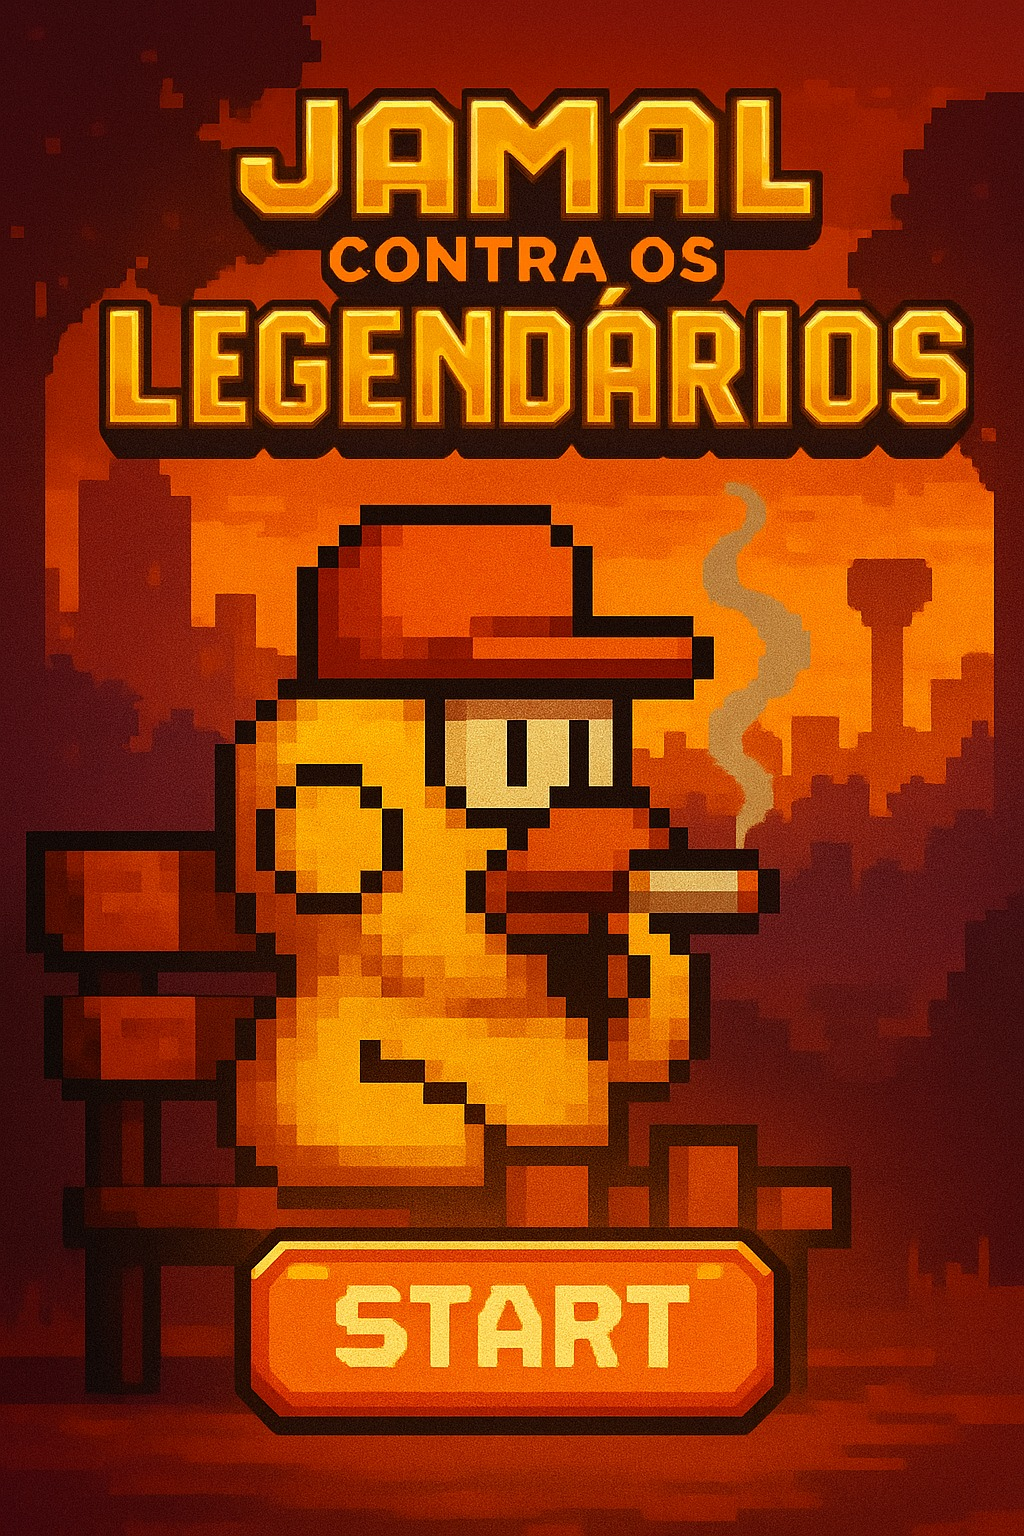
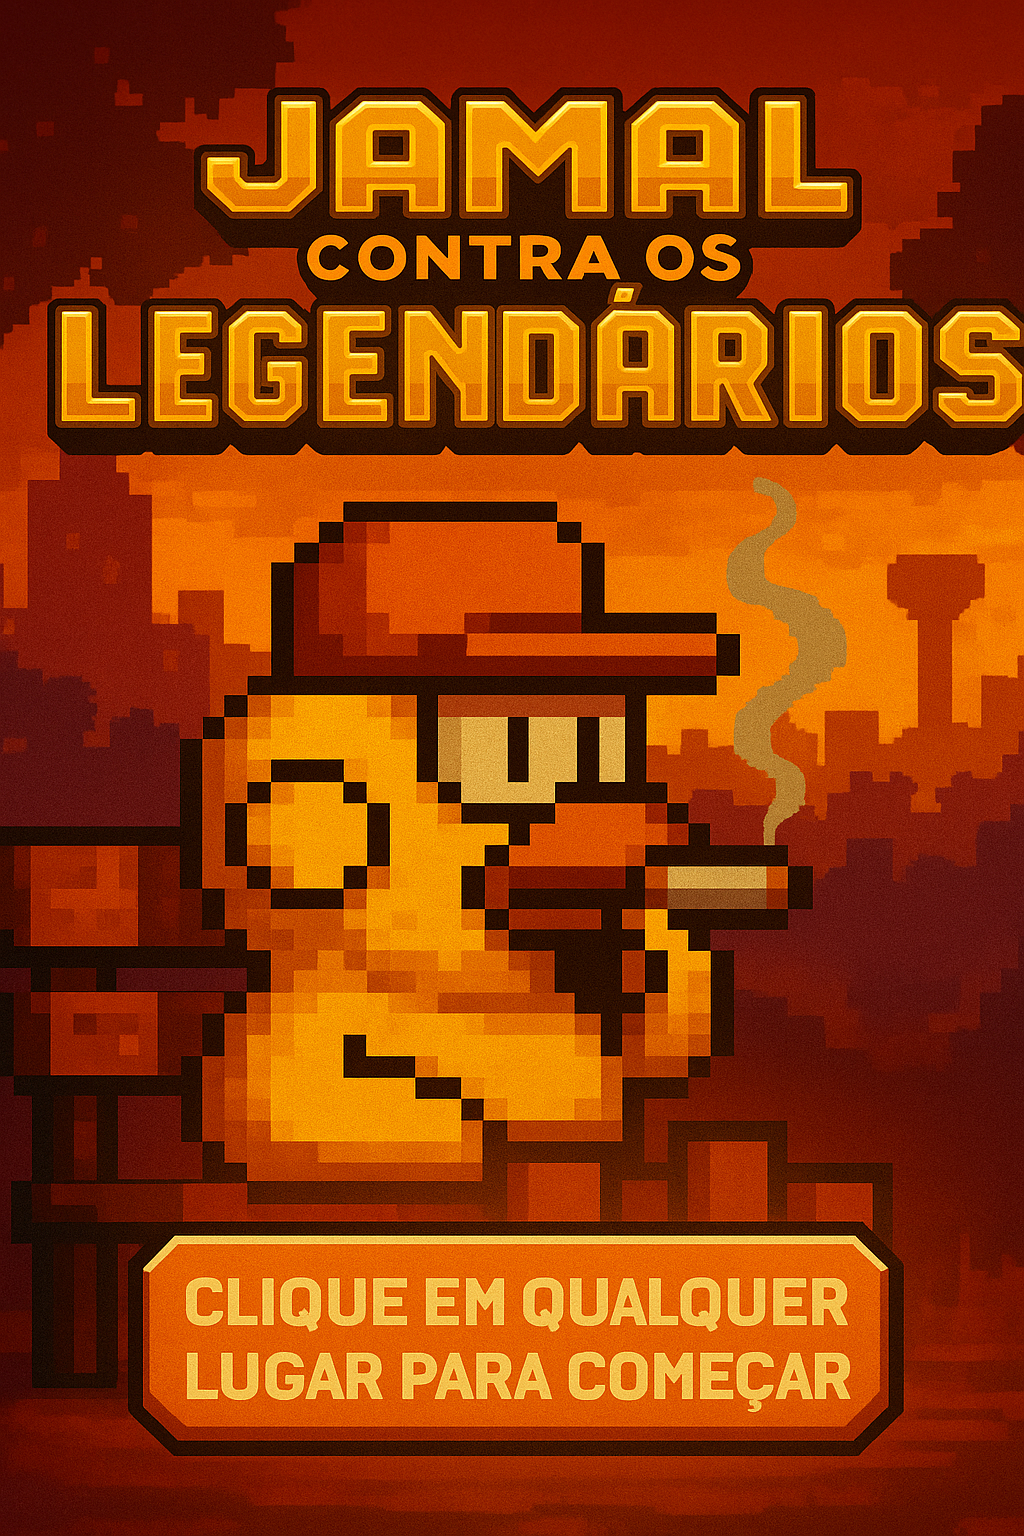
Att

diff --git a/game.js b/game.js
@@ -52,6 +52,9 @@ const imagemJamal = new Image();
 imagemJamal.src = "img/jamal.png";
 const imagemTelaMorteBoss = new Image();
 imagemTelaMorteBoss.src = "img/telamorteboss.png";
+const imagemMenu = new Image();
+imagemMenu.src = "img/menu.png";
+
 
 const somCaiu = new Audio("sounds/efeitos_caiu.wav");
 const somHit = new Audio("sounds/efeitos_hit.wav");
@@ -171,11 +174,40 @@ function lidarComPulo() {
   }
 }
 
+const botaoStart = {
+  x: canvas.width / 2 - 85, // centralizado
+  y: canvas.height - 100,   // perto da parte inferior
+  largura: 170,
+  altura: 50
+};
+
+
 // === Eventos de clique e teclado ===
-canvas.addEventListener("click", lidarComPulo);
-document.addEventListener("keydown", (e) => {
-  if (e.code === "Space") lidarComPulo();
+canvas.addEventListener("click", (e) => {
+  const rect = canvas.getBoundingClientRect();
+  const clickX = e.clientX - rect.left;
+  const clickY = e.clientY - rect.top;
+
+  // Se estiver no estado PRONTO e clicou no botão Start
+  if (estadoAtual === estados.PRONTO) {
+    if (
+      clickX >= botaoStart.x &&
+      clickX <= botaoStart.x + botaoStart.largura &&
+      clickY >= botaoStart.y &&
+      clickY <= botaoStart.y + botaoStart.altura
+    ) {
+      estadoAtual = estados.CUTSCENE_INICIO;
+      cutsceneIndex = 0;
+      carregarImagemCutscene(imagensCutsceneInicio[cutsceneIndex]);
+      musicaFundo.pause();
+      musicaFundo.currentTime = 0;
+      return;
+    }
+  }
+
+  lidarComPulo();
 });
+
 
 // === Tubos (obstáculos do jogo) ===
 const tubos = {
@@ -393,8 +425,17 @@ function desenharJogo() {
   contexto.fillText(pontuacaoTubos, canvas.width / 2, 40);
 
   if (estadoAtual === estados.PRONTO) {
-    contexto.fillText("Clique para começar", canvas.width / 2, canvas.height / 2);
-  }
+    contexto.fillStyle = "#FF6600"; // cor laranja
+contexto.fillRect(botaoStart.x, botaoStart.y, botaoStart.largura, botaoStart.altura);
+
+contexto.fillStyle = "white";
+contexto.font = "16px 'Press Start 2P'";
+contexto.textAlign = "center";
+contexto.fillText("START", canvas.width / 2, botaoStart.y + 32);
+
+  contexto.drawImage(imagemMenu, 0, 0, canvas.width, canvas.height);
+}
+
 
   if (estadoAtual === estados.VITORIA || estadoAtual === estados.DERROTA) {
     botaoReiniciar.style.display = "block";
